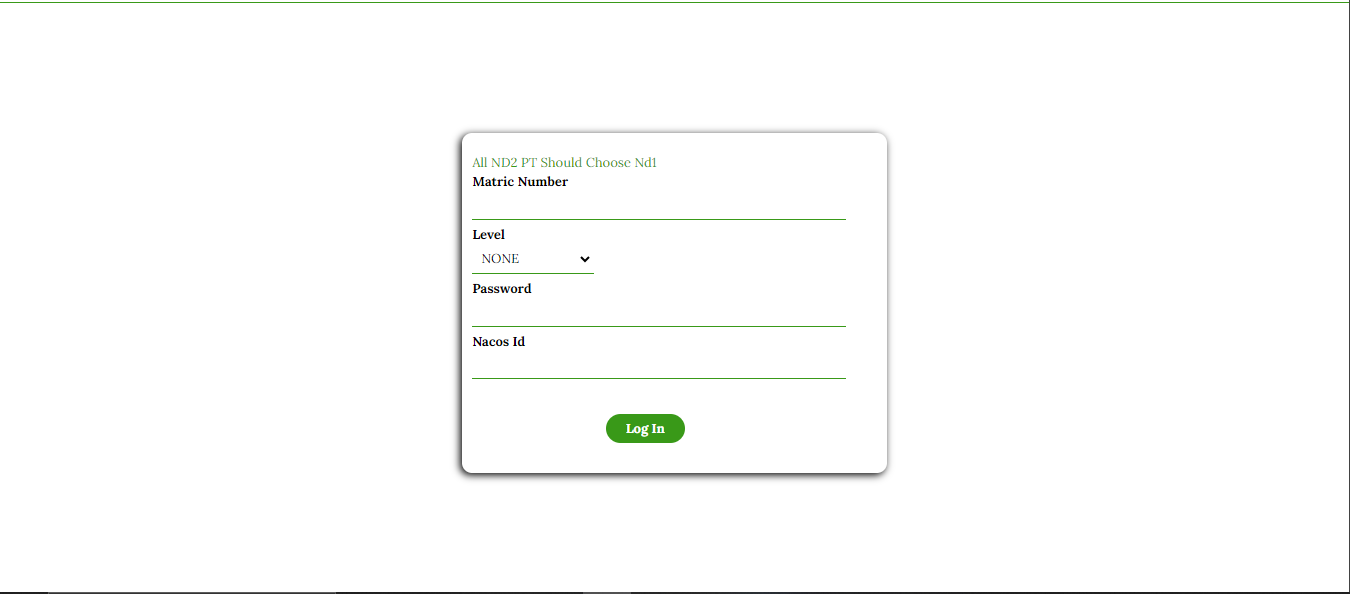
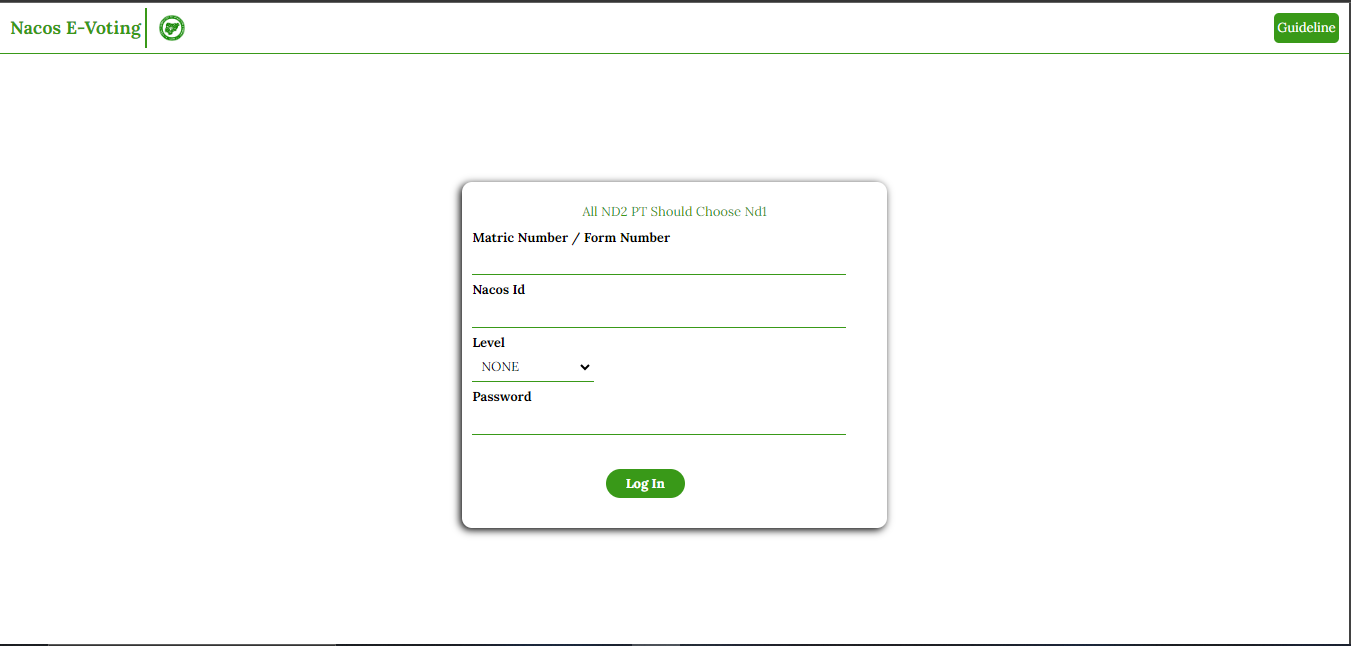
changes

diff --git a/src/VoteComponent.jsx b/src/VoteComponent.jsx
@@ -9,11 +9,18 @@ const LogIn = ( {matricNumber, setMatricNumber, password, setPassword, level, se
         <div className="login">
             <form onSubmit={handleSubmit}>
                 <p className="caution">all ND2 PT should choose Nd1</p>
-                <label htmlFor="matricNumber">matric number</label> <br />
-                <input type="number"
+                <label htmlFor="matricNumber">matric number / form number</label> <br /> {/* kindly change this to matric number alone, once youve have a correct data  */}
+                <input type="text"
                     required
                     value={matricNumber}
                     onChange={(e) => setMatricNumber(e.target.value)}
+                /> <br /> 
+
+                <label htmlFor="nacosId">nacos id</label> <br />
+                <input type="text"
+                    required
+                    value={nacosId}
+                    onChange={(e) => setNacosId(e.target.value)}
                 /> <br />
 
                 <label htmlFor="level">level</label> <br />
@@ -33,15 +40,8 @@ const LogIn = ( {matricNumber, setMatricNumber, password, setPassword, level, se
                     value={password}
                     onChange={(e) => setPassword(e.target.value)}
                 /> <br />
-                
-                <label htmlFor="nacosId">nacos id</label> <br />
-                <input type="text"
-                    required
-                    value={nacosId}
-                    onChange={(e) => setNacosId(e.target.value)}
-                /> <br />
 
-                <p>{ message }</p> <br />
+                <p className="message">{ message }</p> <br />
 
                 <button>log in</button>
             </form>
@@ -102,7 +102,7 @@ const VoteComponent = () => {
                 headers: {
                     'Content-Type': 'application/json'
                 },
-                body: JSON.stringify({ matricNumber, level, nacosId, password })
+                body: JSON.stringify({ level, nacosId, password }) //matric number was removed cause of issue on the db (once a correct data as been given matric number should be implemented)
             });
     
             const data = await response.json();
@@ -114,8 +114,11 @@ const VoteComponent = () => {
     
             if (response.status === 200) {
                 isPending(true);
+                setMessage("login successfully");
+                console.log( matricNumber);
             } else {
                 console.error('Unexpected response message:', data.message);
+                setMessage("please double-check your login details. ensure both password and Nacos Id are correct");
             }
         } catch (error) {
             console.error('Login error:', error.message);

diff --git a/src/index.css b/src/index.css
@@ -174,6 +174,13 @@
   border-bottom: 1px solid #399918;
   margin-bottom: 5px;
 }
+.login .message{
+  color: red;
+}
+.login .caution{
+  text-align: center;
+  padding-bottom: 6px;
+}
 .login input:hover{
   border: none;
   outline: none;
